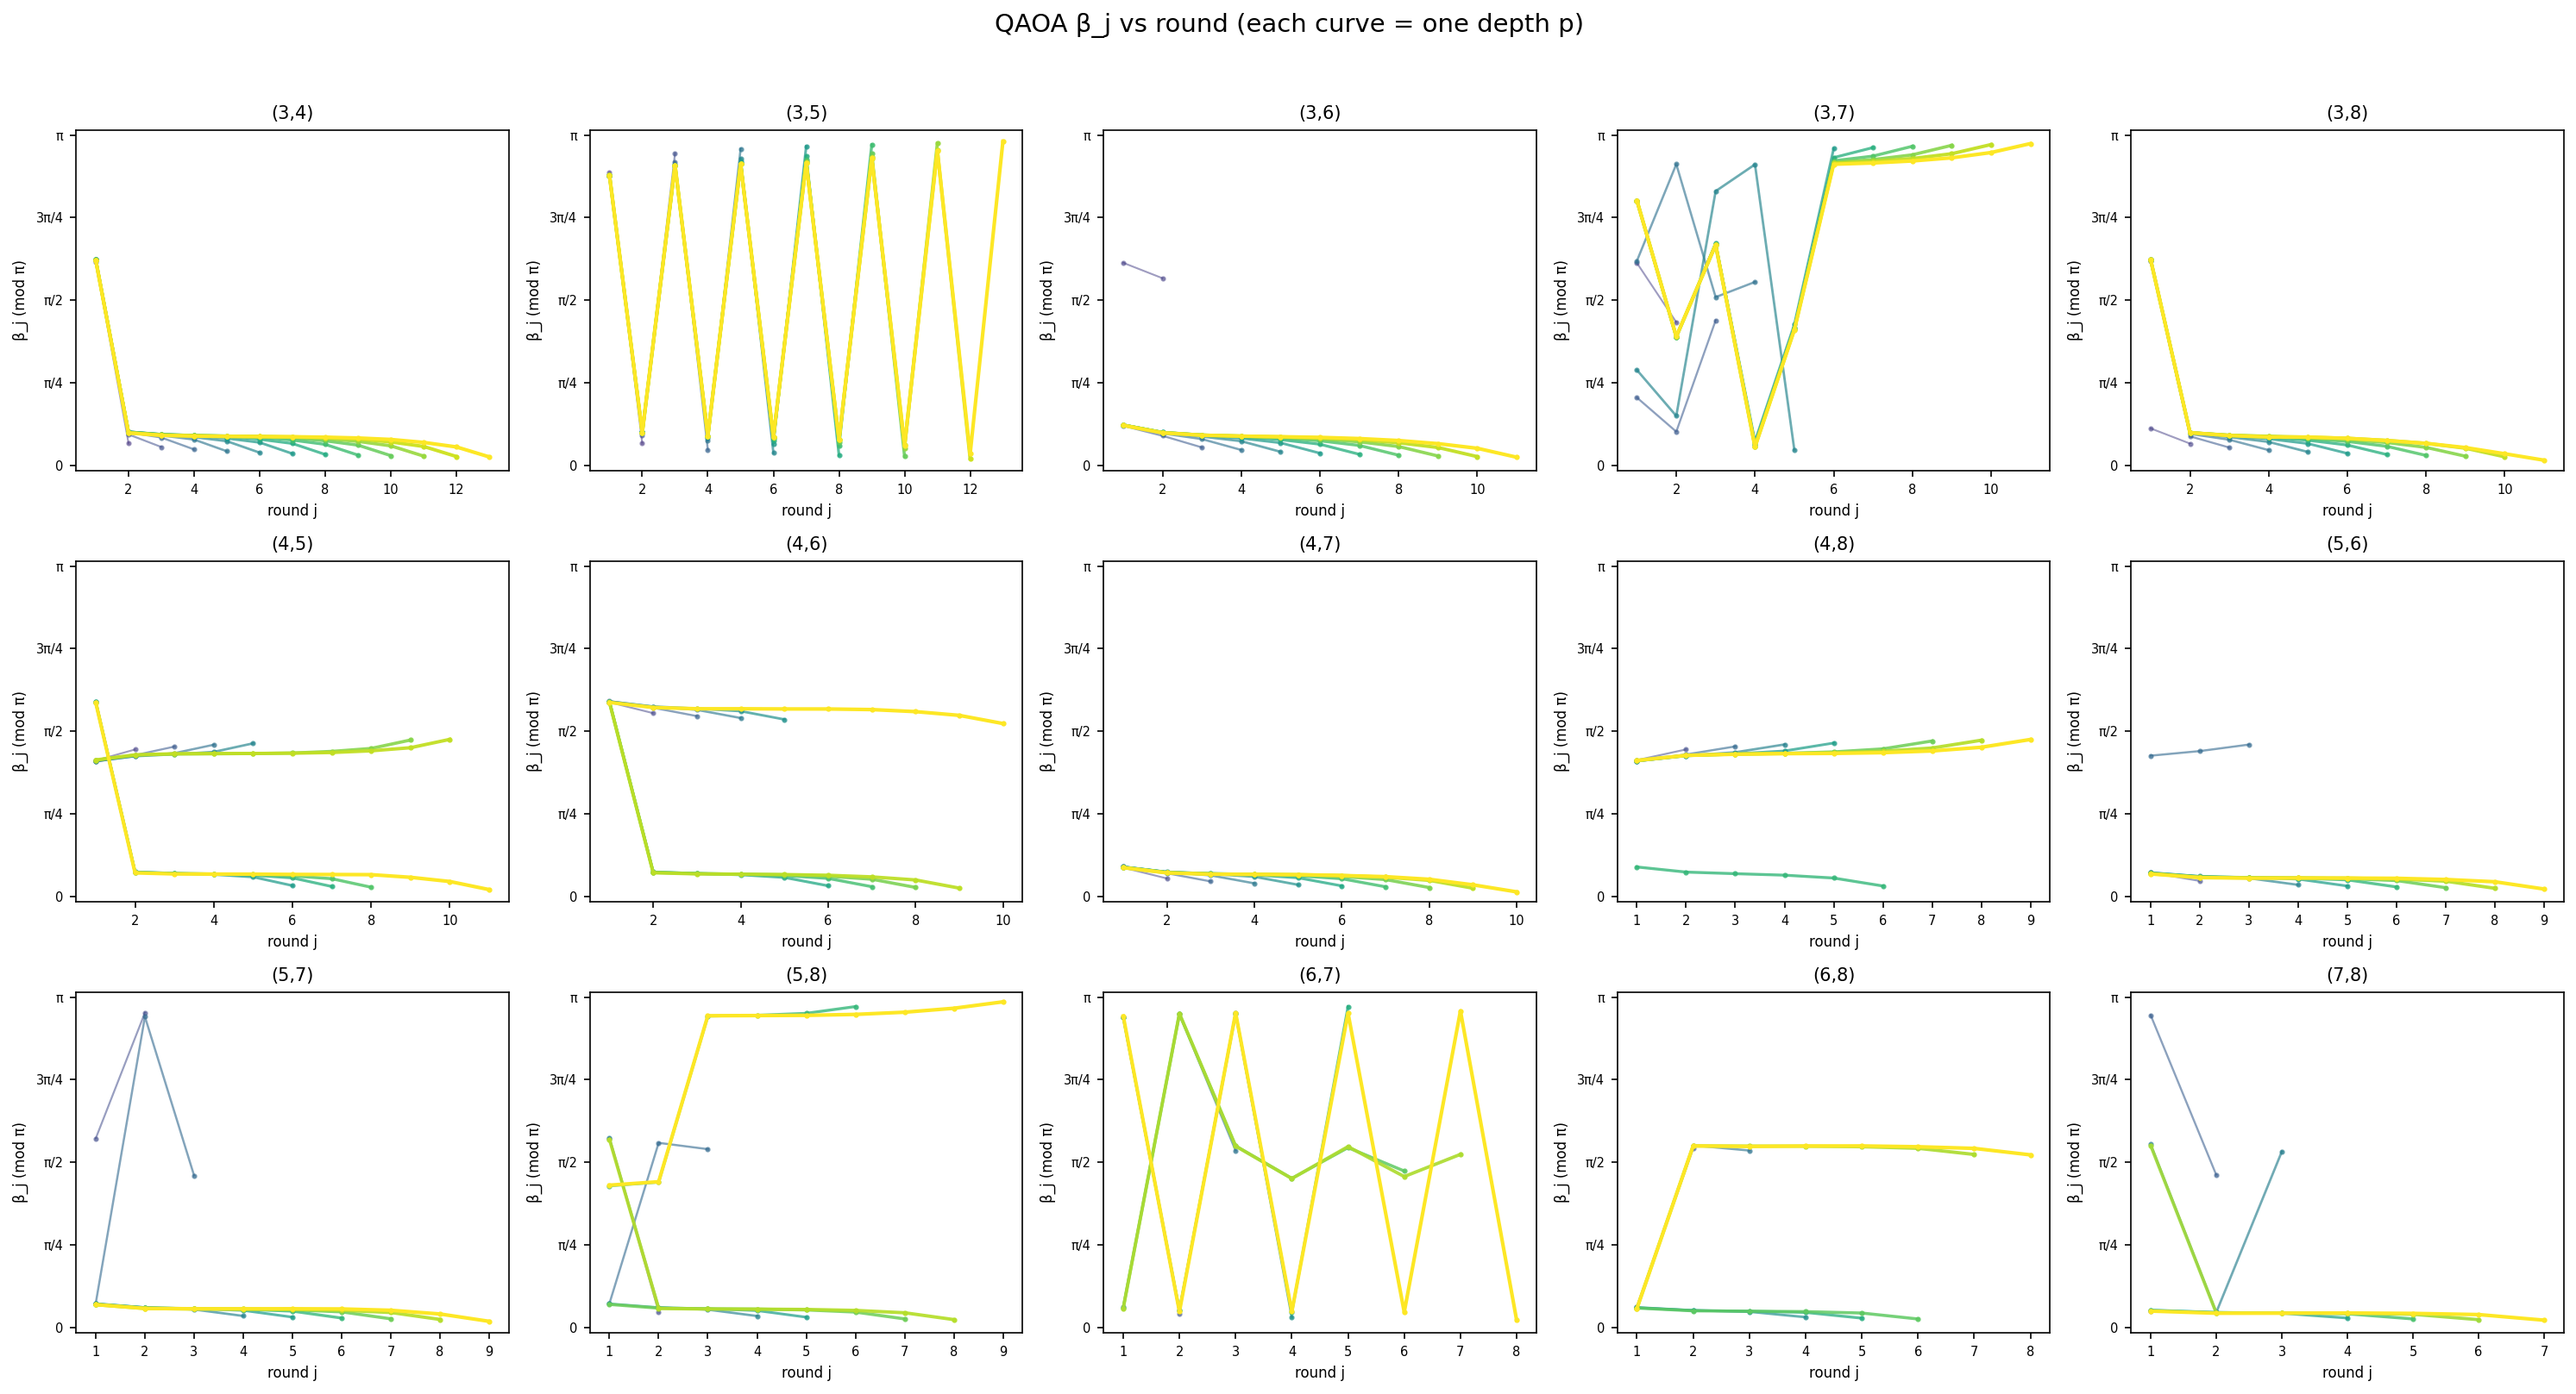
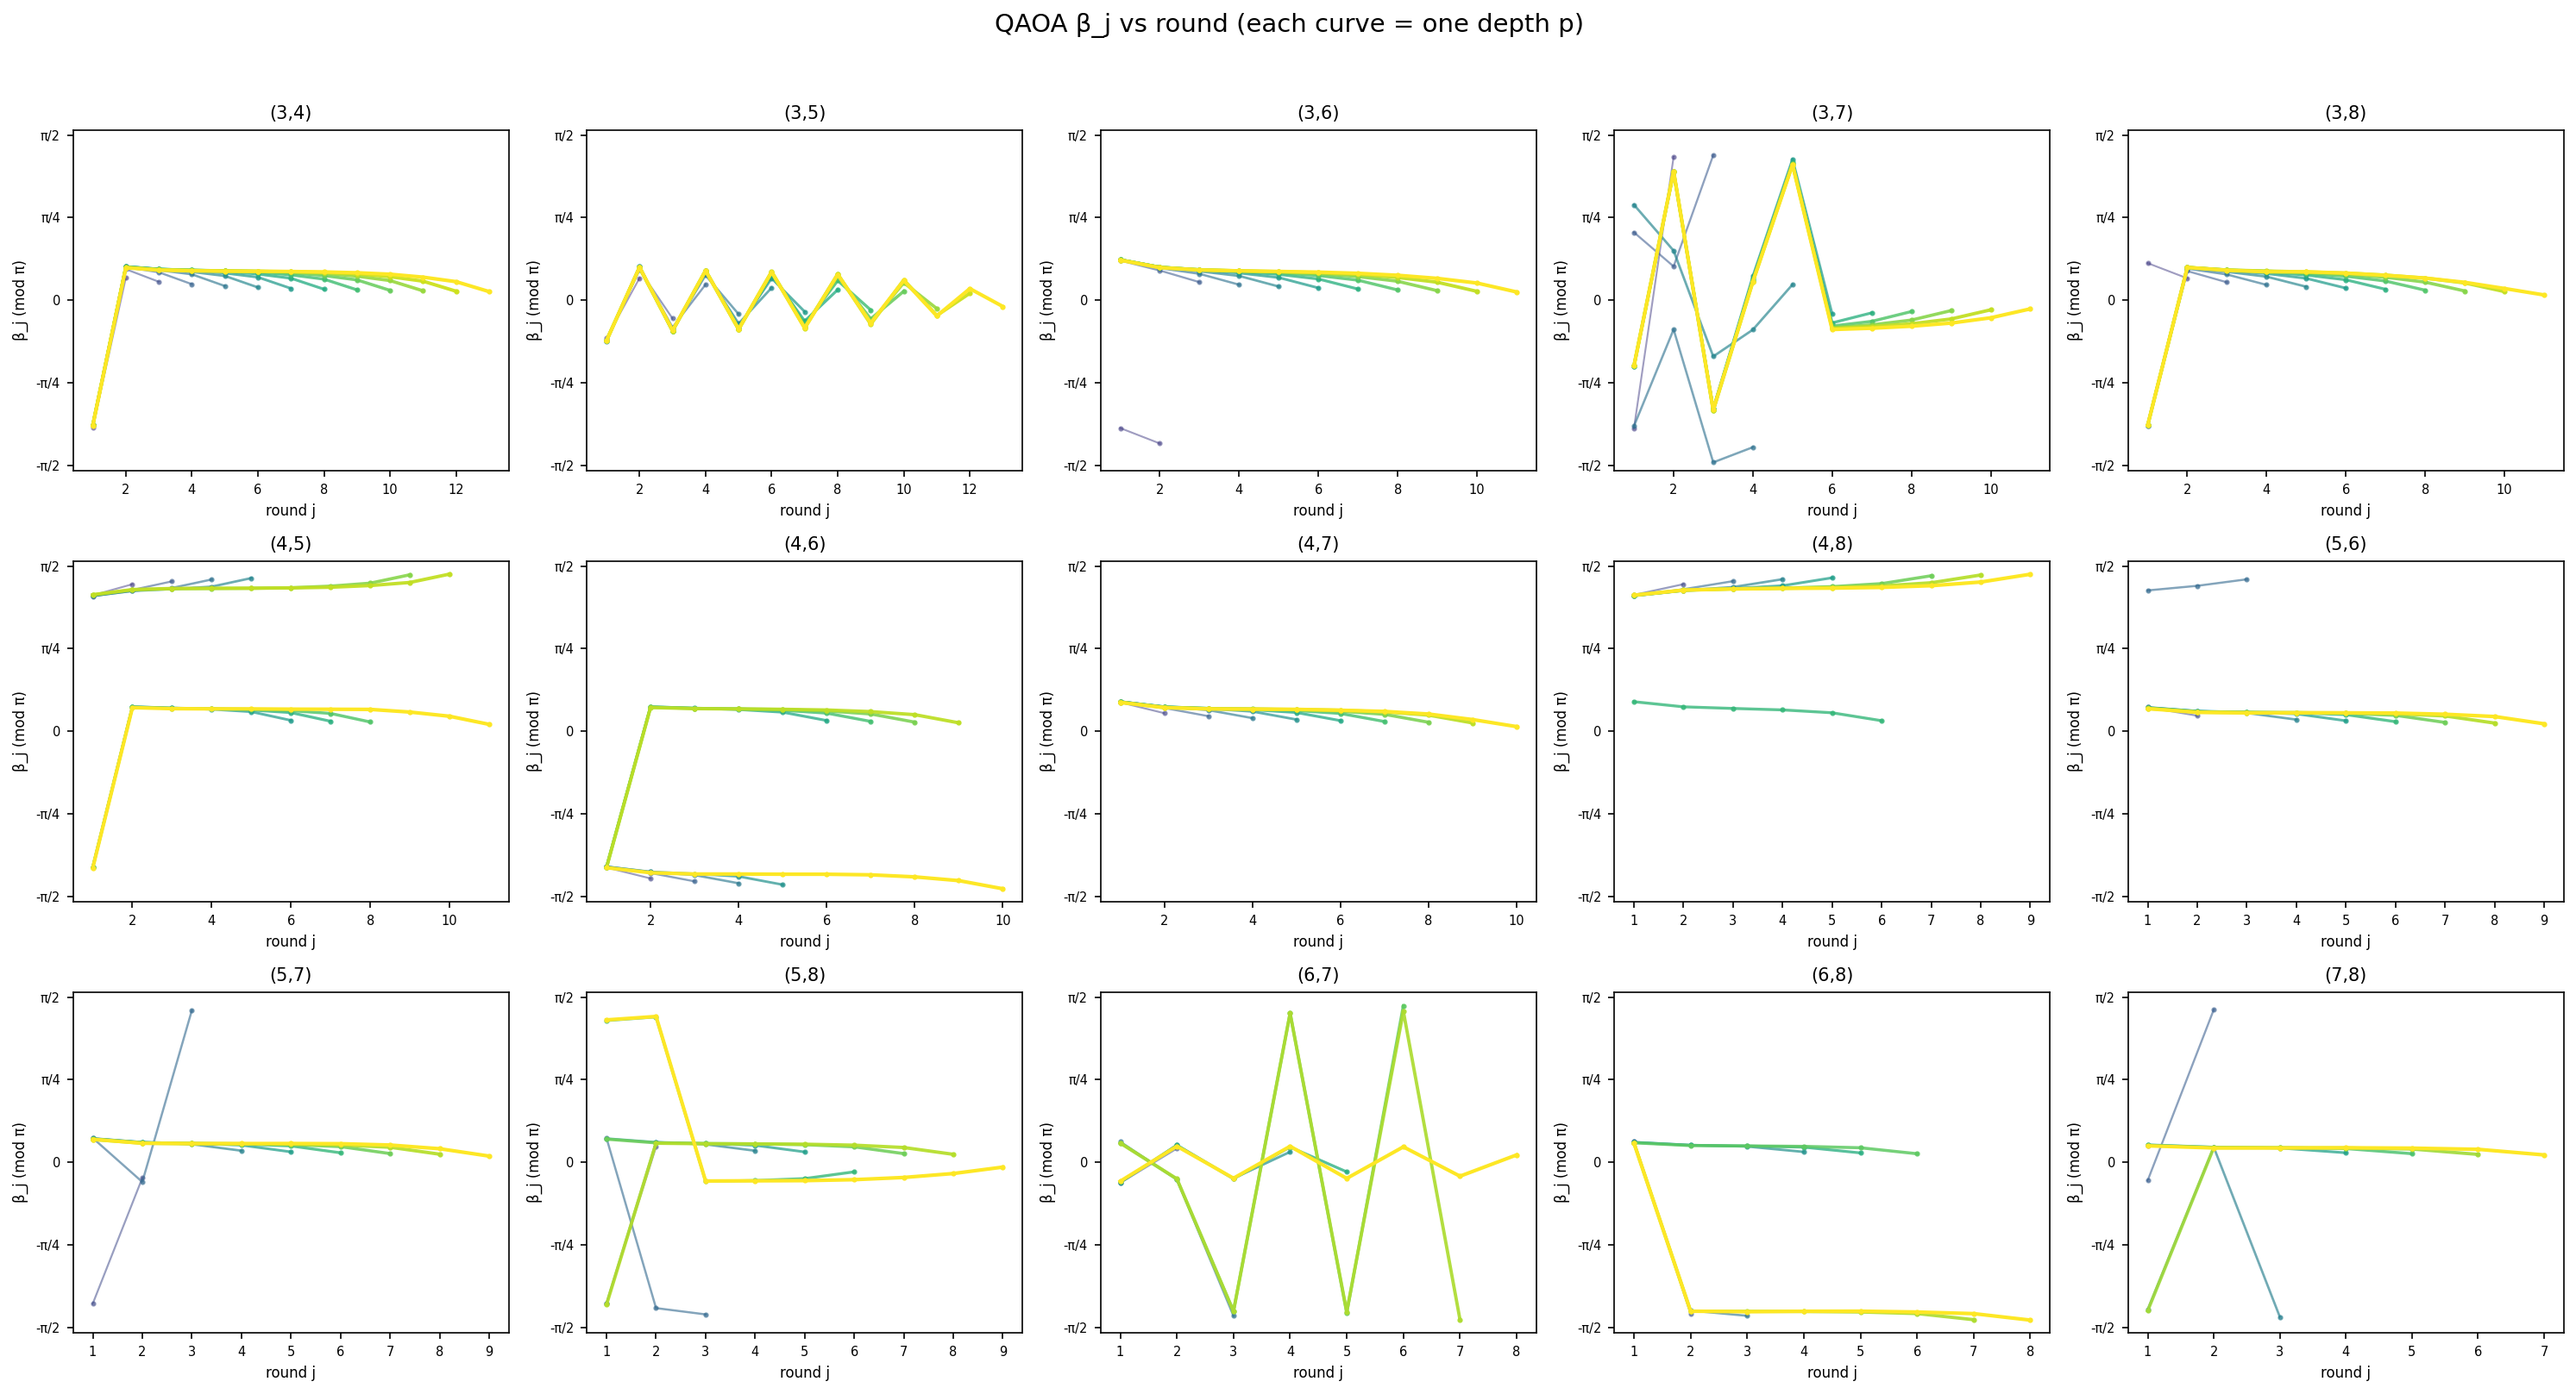
fix: normalize angles to [-π/2, +π/2] for clearer convergence

diff --git a/scripts/plot_angles_vs_round.py b/scripts/plot_angles_vs_round.py
@@ -30,9 +30,11 @@ SAFE_P_MAX = {
     (7, 8): 7,
 }
 
-def normalize_to_0_pi(v):
-    """Map angle to [0, π] by subtracting integer multiples of π."""
+def normalize_to_pm_half_pi(v):
+    """Map angle to [-π/2, +π/2] via mod π, then shift."""
     v = v % math.pi          # -> [0, π)
+    if v > math.pi / 2:
+        v -= math.pi         # -> (-π/2, 0] for the upper half
     return v
 
 # Read data: (k,D) -> p -> [(round, value)]
@@ -55,7 +57,7 @@ for fname, store, col in [('gamma_angles.csv', gamma_data, 'gamma'),
             p_max = SAFE_P_MAX.get((k, D), 8)
             if p > p_max:
                 continue
-            v = normalize_to_0_pi(v)
+            v = normalize_to_pm_half_pi(v)
             store[(k, D)][p].append((j, v))
 
 pairs = sorted(set(gamma_data.keys()))
@@ -98,9 +100,9 @@ def make_plot(store, angle_name, ylabel, filename):
         ax.set_title(f'({k},{D})', fontsize=10)
         ax.set_xlabel('round j', fontsize=8)
         ax.set_ylabel(f'{ylabel} (mod π)', fontsize=8)
-        ax.set_ylim(-0.05, math.pi + 0.05)
-        ax.set_yticks([0, math.pi/4, math.pi/2, 3*math.pi/4, math.pi])
-        ax.set_yticklabels(['0', 'π/4', 'π/2', '3π/4', 'π'], fontsize=7)
+        ax.set_ylim(-math.pi/2 - 0.05, math.pi/2 + 0.05)
+        ax.set_yticks([-math.pi/2, -math.pi/4, 0, math.pi/4, math.pi/2])
+        ax.set_yticklabels(['-π/2', '-π/4', '0', 'π/4', 'π/2'], fontsize=7)
         ax.tick_params(labelsize=7)
 
     # Hide unused subplots
